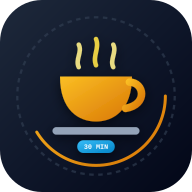
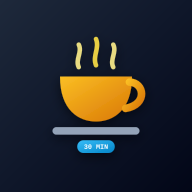
Wersja 1.3.3: przywrócenie pełnowymiarowej ikony na cały obszar (usunięcie wewnętrznego pomniejszenia, full-bleed bez podwójnych krawędzi)

diff --git a/vite.config.ts b/vite.config.ts
@@ -34,16 +34,16 @@ export default defineConfig(({ mode }) => {
               src: isProd ? './pwa-192x192.png' : '/pwa-192x192.png',
               sizes: '192x192',
               type: 'image/png',
-              purpose: 'any',
+              purpose: 'any maskable',
             },
             {
               src: isProd ? './pwa-512x512.png' : '/pwa-512x512.png',
               sizes: '512x512',
               type: 'image/png',
-              purpose: 'any',
+              purpose: 'any maskable',
             },
             {
-              src: '/pwa-maskable-512x512.png',
+              src: isProd ? './pwa-maskable-512x512.png' : '/pwa-maskable-512x512.png',
               sizes: '512x512',
               type: 'image/png',
               purpose: 'maskable',
@@ -82,6 +82,8 @@ export default defineConfig(({ mode }) => {
         },
         workbox: {
           globPatterns: ['**/*.{js,css,html,ico,png,svg,woff,woff2}'],
+          globIgnores: ['**/assets/aistudio/**', '**/*.map'],
+          maximumFileSizeToCacheInBytes: 5 * 1024 * 1024,
           skipWaiting: true,
           clientsClaim: true,
           cleanupOutdatedCaches: true,

diff --git a/scripts/generate-icons.js b/scripts/generate-icons.js
@@ -29,22 +29,9 @@ async function generate() {
     .toFile(path.join(publicDir, 'apple-touch-icon.png'));
   console.log('Generated apple-touch-icon.png');
 
-  // Maskable 512x512 with 15% safe padding
-  const paddedSize = Math.round(512 * 0.76); // inner image
-  const innerBuffer = await sharp(svgBuffer)
-    .resize(paddedSize, paddedSize)
-    .png()
-    .toBuffer();
-
-  await sharp({
-    create: {
-      width: 512,
-      height: 512,
-      channels: 4,
-      background: { r: 15, g: 23, b: 42, alpha: 1 } // #0f172a
-    }
-  })
-    .composite([{ input: innerBuffer, gravity: 'center' }])
+  // Maskable 512x512: full-bleed edge-to-edge so launcher mask cuts smoothly across entire icon
+  await sharp(svgBuffer)
+    .resize(512, 512)
     .png()
     .toFile(path.join(publicDir, 'pwa-maskable-512x512.png'));
   console.log('Generated pwa-maskable-512x512.png');
